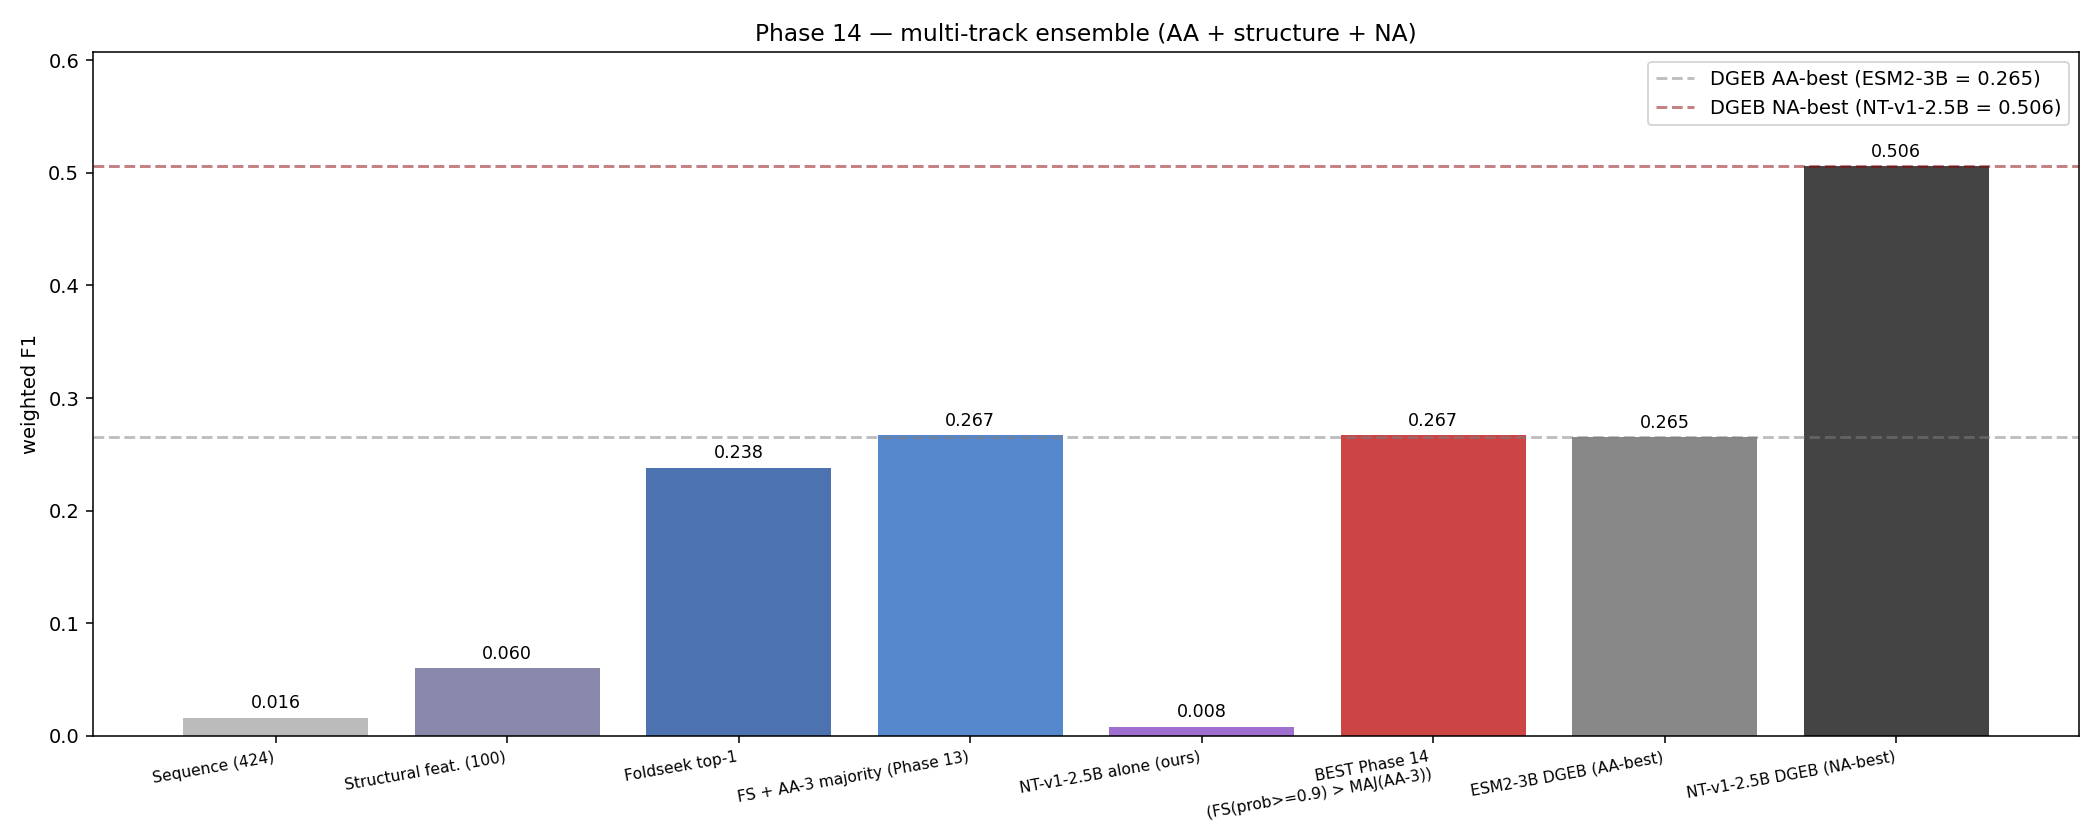
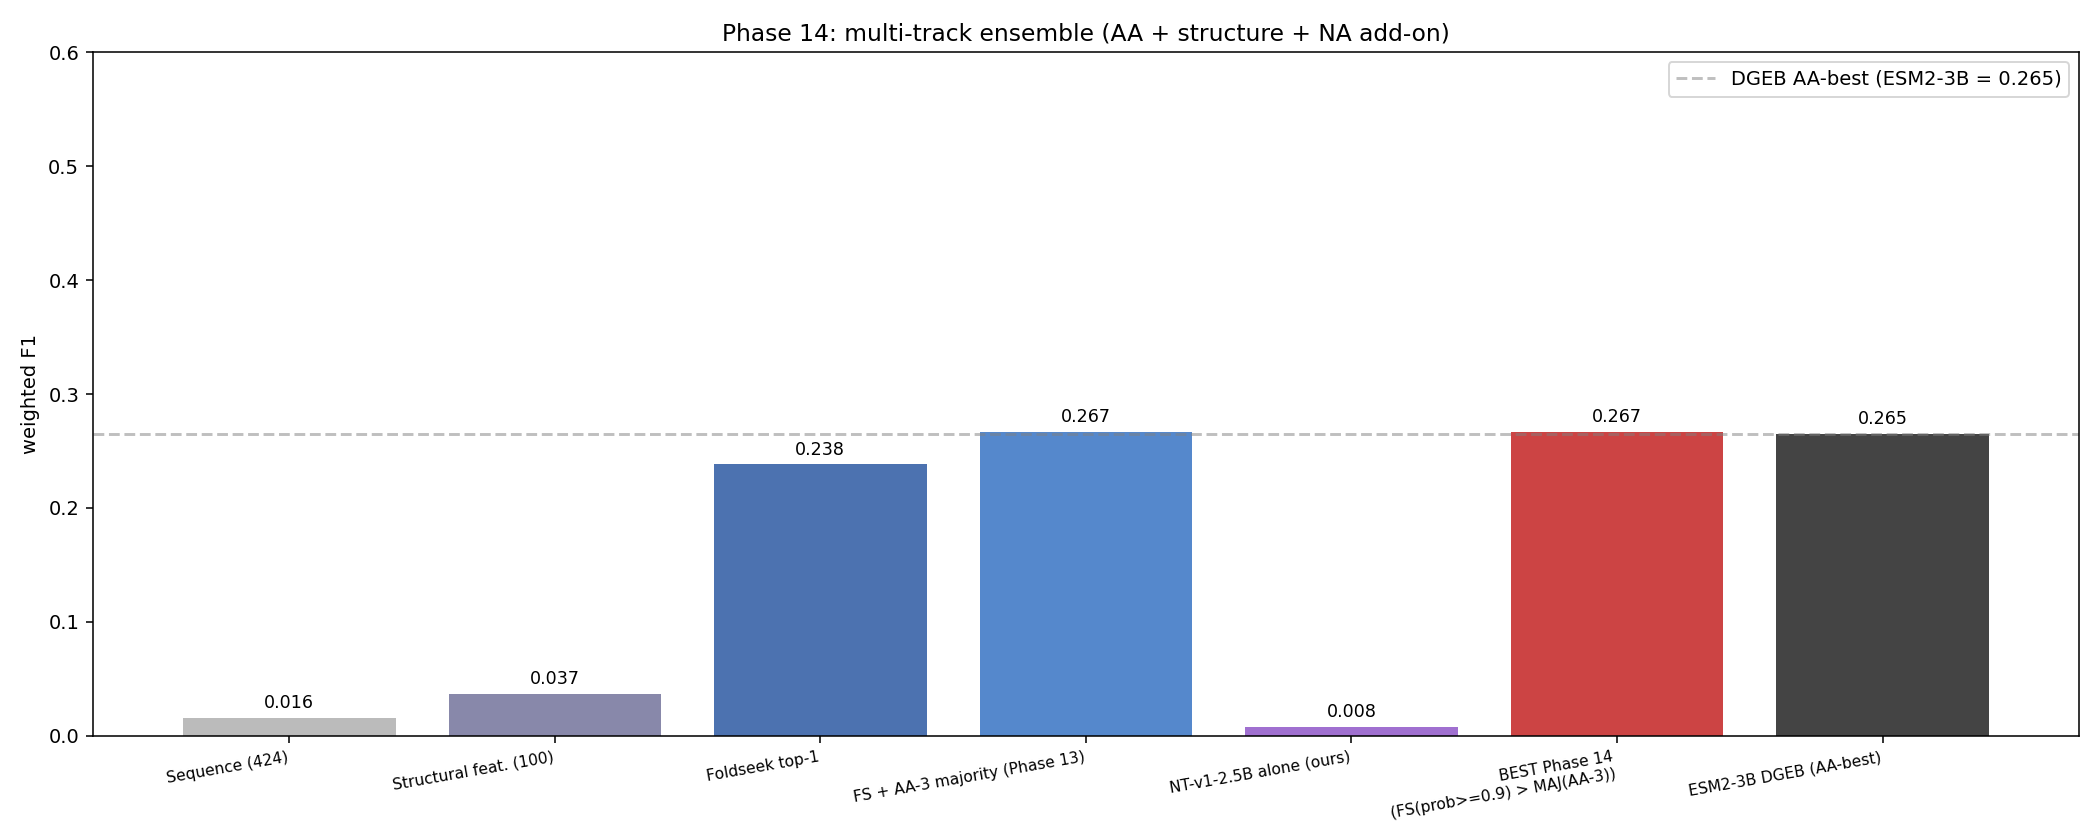
Fix 6 issues from workflow completeness-critic (sweep)
The resumed proofread workflow's completeness critic surfaced 6 new
verified issues beyond the 18 from the audit/verify phases:

Critical (sweep 1+2): the discredited "NT = 0.506 on Convergent Enzymes
(NA-track SOTA)" claim still lived in the PUBLIC, reproducible code that
the paper links to:
  - colab/nucleotide_transformer_colab.py header
  - src/phase14_multitrack.py docstring, print, chart dict, and the
    dashed "DGEB NA-best 0.506" line/legend baked into
    charts/phase14_multitrack.png
A reviewer opening these would hit a direct contradiction of the paper's
central correction. Rewrote both files to state DGEB does not evaluate
any NT variant on Convergent Enzymes (0.506 is a MIBIG number), removed
the false 0.506 reference line, fixed the stale 0.060->0.037 structural
bar and an em-dash title, and regenerated charts/phase14_multitrack.png.
This also makes the README "corrected throughout" note truthful.

Minor/nit (sweep 3-6):
- Compute section: ESM2-3B lower bound 50 -> 60 min to match the Colab
  script header (~60-75 min); abstract/conclusion "approximately one
  hour" unchanged.
- refs.bib: add doi 10.1126/science.ade2574 to lin2023esm2 (was the
  only entry missing a DOI).
- Figure 5 (fig:hard) caption: now names the four panels actually
  plotted (Foldseek prob, protein length, CDS GC content, codon
  entropy) and notes the significant CDS-length effect is in Table 3
  (it is not a plotted panel).
[…]

diff --git a/src/phase14_multitrack.py b/src/phase14_multitrack.py
@@ -1,12 +1,13 @@
 """
-Phase 14: multi-track ensemble — adds the Nucleotide Transformer (NT-v1-2.5B)
+Phase 14: multi-track ensemble: adds the Nucleotide Transformer (NT-v1-2.5B)
 to the Foldseek + AA-LM stack from Phase 13.
 
-This is the experiment that engages the NA track of DGEB Convergent Enzymes.
-DGEB reports NT-v1-2.5B alone at F1 = 0.506, our previous best is 0.2668
-(Foldseek + AA-LM majority). Adding NT into the ensemble is the natural way
-to test whether the AA-side structural-retrieval signal still helps once a
-strong DNA-side model is in the mix.
+This is an exploratory attempt to add a nucleotide-track signal to the
+ensemble. NOTE: DGEB does NOT evaluate any NT variant on Convergent Enzymes
+Classification, so there is no DGEB NT number for this task to compare against
+(the 0.506 sometimes cited for NT is from the separate MIBIG Classification
+task). Our previous best is 0.2668 (Foldseek + AA-LM majority); the question
+here is simply whether NT embeddings help the ensemble at all. They did not.
 
 Inputs (already on disk from prior phases):
   features/esm2_3b_matrix.npz
@@ -203,30 +204,28 @@ def main():
     best = df.sort_values("weighted_f1", ascending=False).iloc[0]
     print(f"\n=== OVERALL BEST: {best['method']}  F1 = {best['weighted_f1']:.4f} ===")
     print(f"   DGEB ESM2-3B (AA-best): 0.265  -> crossed: {best['weighted_f1'] > 0.265}")
-    print(f"   DGEB NT-v1-2.5B (NA-SOTA): 0.506  -> crossed: {best['weighted_f1'] > 0.506}")
+    # NOTE: DGEB does not evaluate any NT variant on Convergent Enzymes, so
+    # there is no DGEB NT number for this task to compare against.
 
     methods = {
         "Sequence (424)": 0.016,
-        "Structural feat. (100)": 0.060,
+        "Structural feat. (100)": 0.037,
         "Foldseek top-1": 0.2383,
         "FS + AA-3 majority (Phase 13)": 0.2668,
         f"NT-v1-2.5B alone (ours)": f1s["NT-v1-2.5B"],
         f"BEST Phase 14\n({best['method']})": best["weighted_f1"],
         "ESM2-3B DGEB (AA-best)": 0.265,
-        "NT-v1-2.5B DGEB (NA-best)": 0.506,
     }
     fig, ax = plt.subplots(figsize=(15, 6))
-    colors = ["#bbb", "#88a", "#4c72b0", "#5588cc", "#a070d0", "#cc4444", "#888", "#444"]
+    colors = ["#bbb", "#88a", "#4c72b0", "#5588cc", "#a070d0", "#cc4444", "#444"]
     bars = ax.bar(list(methods.keys()), list(methods.values()), color=colors)
     for b, v in zip(bars, methods.values()):
         ax.text(b.get_x() + b.get_width() / 2, v + 0.005,
                 f"{v:.3f}", ha="center", va="bottom", fontsize=9)
     ax.axhline(0.265, ls="--", color="gray", alpha=0.5,
                label="DGEB AA-best (ESM2-3B = 0.265)")
-    ax.axhline(0.506, ls="--", color="darkred", alpha=0.5,
-               label="DGEB NA-best (NT-v1-2.5B = 0.506)")
     ax.set_ylabel("weighted F1")
-    ax.set_title("Phase 14 — multi-track ensemble (AA + structure + NA)")
+    ax.set_title("Phase 14: multi-track ensemble (AA + structure + NA add-on)")
     ax.set_ylim(0, max(max(methods.values()) * 1.2, 0.6))
     plt.xticks(rotation=10, ha="right", fontsize=8)
     ax.legend()

diff --git a/paper/main.tex b/paper/main.tex
@@ -246,7 +246,7 @@ insertion order (i.e., the first model that voted for the tied label).
 The full pipeline runs on a 4-core Intel i5-11300H laptop with 16~GB RAM
 and no CUDA GPU. The two large language-model embeddings (ESM2-3B and
 ProstT5) are run on a free Google Colab T4 GPU session (approximately
-one hour total: roughly $50$ to $75$ minutes for ESM2-3B including the
+one hour total: roughly $60$ to $75$ minutes for ESM2-3B including the
 model download, plus about $10$ minutes for ProstT5). Foldseek runs in
 a WSL2 Ubuntu environment on the same laptop. Total wall-clock for the
 full Convergent Enzymes pipeline, including all negative-result
@@ -444,12 +444,14 @@ Codon entropy (bits) & $5.31$ & $5.35$ & $0.13$ \\
 \centering
 \includegraphics[width=\textwidth]{../charts/analysis_hard_vs_easy.png}
 \caption{Per-query property distributions on DGEB Convergent Enzymes,
-split by ensemble correctness. Foldseek's top-1 alignment probability
-is the strongest separator ($p = 3 \times 10^{-5}$). Protein length
-and CDS GC content also differ between the two groups, with the hard
-queries having longer sequences and (suggestively) higher GC content.
-Box plots show median, interquartile range, and 1.5$\times$IQR
-whiskers.}
+split by ensemble correctness. The four panels show Foldseek's top-1
+alignment probability, protein length, CDS GC content, and codon
+entropy. Foldseek's top-1 probability is the strongest separator
+($p = 3 \times 10^{-5}$); protein length is borderline ($p = 0.05$)
+and GC content trends higher in the hard group. The strongest length
+effect is on CDS length (Table~\ref{tab:hard}, $p = 0.02$), which is
+not shown as a panel here. Box plots show median, interquartile range,
+and 1.5$\times$IQR whiskers.}
 \label{fig:hard}
 \end{figure}
 

diff --git a/colab/nucleotide_transformer_colab.py b/colab/nucleotide_transformer_colab.py
@@ -1,9 +1,10 @@
 # Nucleotide Transformer (NT v2 250M Multispecies) embeddings on a Colab T4 GPU
 # ==============================================================================
-# NT is a DNA-language foundation model. The DGEB paper reports NT-v2-250M at
-# F1 = 0.506 on Convergent Enzymes Classification (the NA-track SOTA), so
-# adding its embeddings to our Foldseek + AA-LM ensemble is the natural
-# follow-up if we want to engage the NA track too.
+# NT is a DNA-language foundation model. NOTE: DGEB does NOT evaluate NT (or any
+# nucleotide-track model) on Convergent Enzymes Classification; the 0.506 figure
+# sometimes associated with NT is from the separate MIBIG Classification task,
+# not this one. Adding NT embeddings to our Foldseek + AA-LM ensemble is purely
+# an exploratory add-on, and it did not help (see src/phase14_multitrack.py).
 #
 # Inputs come from data/dna_sequences.csv produced by src/fetch_dna.py — that
 # file maps each UniProt ID to its CDS DNA fetched from NCBI EFetch.

diff --git a/README.md b/README.md
@@ -55,7 +55,7 @@ the comparison is strictly against the AA foundation models:
 | DGEB AA model | F1 (Convergent Enzymes) | Our result vs this |
 |---|---:|:---:|
 | esm2_t36_3B_UR50D (AA-best) | 0.265 | ✅ matched (0.267) |
-| esm3_3B | 0.245 | ✅ |
+| esm3_sm_open_v1 | 0.225 | ✅ |
 | progen2 (best of 4) | 0.165 | ✅ |
 | prot_t5_xl_bfd | 0.243 | ✅ |
 
